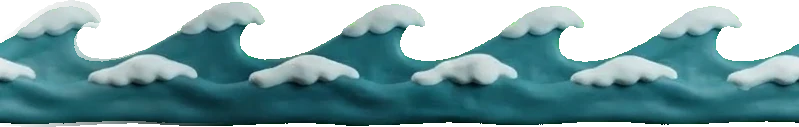
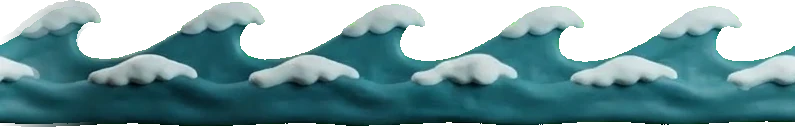
fix(math): Fyld Båden — owner review: one wave band, cargo at deck scale, mascot on the quay
- Waves: wave renders are now made PERIODIC in the pipeline (makePeriodicX finds the crest period, cuts
  at whole periods and blends one period over), and only the near band renders — the pale far band
  showing between crests read as "double vision".
- Scale: the quay's top unit was sized against the pile's 10px-padded grab box, so quay fish were ~2x and
  boxes ~3x the deck cargo. Sizes now come from the pile's own width; piles re-laid out on the planks.
- Deck boxes drawn at 112% for readability; slot marks show only while dragging (they read as stains).
- GameShell's corner mascot stood in the sea: guide={false} and the mascot is seated on the quay planks.

diff --git a/src/components/math/boat/Quay.tsx b/src/components/math/boat/Quay.tsx
@@ -10,6 +10,8 @@ import boxStackArt from '../../../assets/games/boat/box-stack.webp'
 import gullStandArt from '../../../assets/games/boat/gull-stand.webp'
 import gullFlyArt from '../../../assets/games/boat/gull-fly.webp'
 import { idleFloat } from '../../../theme/idleMotion'
+import { PHONE_LANDSCAPE, PHONE_PORTRAIT } from '../../../theme/phoneMedia'
+import Mascot from '../../common/Mascot'
 
 // The quay (owner's Gemini render): two endless supply piles standing on its planks — a stack of fish
 // boxes and a little heap of fish — and a seagull on the bollard. A pile is the child's SOURCE: tap it to
@@ -41,9 +43,9 @@ const Pile: React.FC<{
       {isBox ? (
         <Box component="img" src={boxStackArt} alt="" draggable={false} sx={{ ...imgSx, width: '100%', height: 'auto' }} />
       ) : (
-        <Box sx={{ position: 'relative', display: 'flex', justifyContent: 'center', pt: '30%' }}>
-          <Box sx={{ width: '50%', mr: '-6%' }}><FishView /></Box>
-          <Box sx={{ width: '50%', ml: '-6%' }}><FishView /></Box>
+        <Box sx={{ position: 'relative', display: 'flex', justifyContent: 'center', pt: '24%' }}>
+          <Box sx={{ width: '47%', mr: '-3%' }}><FishView /></Box>
+          <Box sx={{ width: '47%', ml: '-3%' }}><FishView /></Box>
         </Box>
       )}
       {/* The WHOLE PILE is the grab area (owner, 2026-10-14: pressing the lower fish did nothing). The
@@ -64,9 +66,10 @@ const Pile: React.FC<{
             onActivate={() => onLoad(kind)}
           >
             <Box data-boat-source={kind} sx={{ position: 'relative', width: '100%', height: '100%', cursor: interactive ? 'grab' : 'default' }}>
-              {/* The top unit: a box resting on the stack / a fish on top of the heap (+10px: this box is
-                  padded 10px past the pile). */}
-              <Box sx={{ position: 'absolute', left: '50%', top: '10px', width: isBox ? '78%' : '52%', transform: isBox ? 'translate(-50%, -38%)' : 'translate(-50%, 0%)' }}>
+              {/* The top unit: a box resting on the stack / a fish on top of the heap. This box is padded
+                  10px past the pile on every side, so sizes are taken from the PILE's width (100% − 20px) —
+                  the same size as the units below it, which match the cargo on the deck. */}
+              <Box sx={{ position: 'absolute', left: '50%', top: '10px', width: isBox ? 'calc((100% - 20px) * 0.92)' : 'calc((100% - 20px) * 0.47)', transform: isBox ? 'translate(-50%, -34%)' : 'translate(-50%, 0%)' }}>
                 {isBox ? <FishBoxView /> : <FishView />}
               </Box>
             </Box>
@@ -108,7 +111,7 @@ const Quay: React.FC<{
             <Box component="img" src={quayArt} alt="" draggable={false} sx={{ ...imgSx, position: 'absolute', inset: 0, width: '100%', height: '100%' }} />
             {/* A seagull resting on the bollard — calm decor, it never asks for anything. On a correct
                 send it takes off and flies away (the send-off); it is back on the next boat. */}
-            <Box aria-hidden sx={{ position: 'absolute', left: '74%', width: '17%', bottom: '74%' }}>
+            <Box aria-hidden sx={{ position: 'absolute', left: '77%', width: '15%', bottom: '74%' }}>
               {gullAway && !reduce ? (
                 <motion.div
                   initial={{ transform: 'translate(0%, 0%) scale(1)', opacity: 1 }}
@@ -126,8 +129,26 @@ const Quay: React.FC<{
                 </motion.div>
               ) : null}
             </Box>
-            <Pile kind="box" left="0%" width="42%" interactive={interactive} onLoad={onLoad} refill={refills.box} reduce={reduce} />
-            <Pile kind="fish" left="40%" width="36%" interactive={interactive} onLoad={onLoad} refill={refills.fish} reduce={reduce} />
+            {/* The mascot stands on the planks at the left end, beside the cargo — GameShell's corner
+                companion would stand in the sea here (owner, 2026-10-14), so the game turns it off and
+                seats its own. mascotBus reactions still reach it. */}
+            <Mascot
+              sx={{
+                position: 'absolute',
+                left: '-4%',
+                bottom: PLANK_TOP_FROM_BOTTOM,
+                width: '26%',
+                height: 'auto',
+                aspectRatio: '1',
+                zIndex: 1,
+                [PHONE_LANDSCAPE]: { display: 'block' },
+                [PHONE_PORTRAIT]: { width: '26%', height: 'auto' },
+              }}
+            />
+            {/* Piles at DECK scale: a box on the stack and a fish in the heap are the size of the cargo
+                they become on the boat, so the child sees the same thing move rather than a shrink. */}
+            <Pile kind="box" left="22%" width="22%" interactive={interactive} onLoad={onLoad} refill={refills.box} reduce={reduce} />
+            <Pile kind="fish" left="45%" width="34%" interactive={interactive} onLoad={onLoad} refill={refills.fish} reduce={reduce} />
           </Box>
         </DroppableZone>
       </Box>

diff --git a/src/components/math/boat/Boat.tsx b/src/components/math/boat/Boat.tsx
@@ -52,6 +52,8 @@ interface BoatProps {
   shakeKey: number
   /** The boat is setting off — a bow splash plays once. */
   departing: boolean
+  /** Something is being dragged — the deck shows where the slots are. */
+  dragging: boolean
 }
 
 // ── Slot geometry (fractions of the boat box) ────────────────────────────────────────────────────────
@@ -90,7 +92,7 @@ const Slot: React.FC<{
 // keeps its slot so the 5 + 5 stays countable.
 const Cargo: React.FC<{ kind: CargoKind }> = ({ kind }) =>
   kind === 'box' ? (
-    <Box sx={{ width: '106%', ml: '-3%', flex: '0 0 auto' }}>
+    <Box sx={{ width: '112%', ml: '-6%', flex: '0 0 auto' }}>
       <FishBoxView />
     </Box>
   ) : (
@@ -105,7 +107,8 @@ const Row: React.FC<{
   interactive: boolean
   reduce: boolean
   onUnload: (kind: CargoKind) => void
-}> = ({ kind, count, ghostCount, bundle, interactive, reduce, onUnload }) => {
+  showSlots: boolean
+}> = ({ kind, count, ghostCount, bundle, interactive, reduce, onUnload, showSlots }) => {
   const pulse = hintPulse(reduce)
   return (
     <>
@@ -117,7 +120,11 @@ const Row: React.FC<{
         return (
           <Slot key={i} kind={kind} i={i}>
             {/* A soft mark on the deck where this slot is — the 5 + 5 structure is visible even empty. */}
-            <Box aria-hidden sx={{ position: 'absolute', left: '8%', right: '8%', bottom: '-6%', height: '22%', borderRadius: '50%', background: 'rgba(90,55,25,0.22)' }} />
+            {/* Where this slot is — shown only while something is being dragged (as resting marks they read
+                as stains on the deck, owner 2026-10-14). The 5 + 5 gap carries the structure the rest of the time. */}
+            {showSlots && (
+              <Box aria-hidden sx={{ position: 'absolute', left: '8%', right: '8%', bottom: '-6%', height: '22%', borderRadius: '50%', background: 'rgba(255,255,255,0.4)', boxShadow: '0 0 6px rgba(255,255,255,0.6)' }} />
+            )}
             {ghosted && (
               // The hint: a faint silhouette of exactly what goes here, breathing.
               <Box {...pulse.props} sx={[{ position: 'absolute', inset: 0, opacity: 0.45, filter: 'grayscale(0.4) brightness(1.4)', display: 'flex', alignItems: 'center' }, pulse.sx]}>
@@ -212,6 +219,7 @@ const Boat: React.FC<BoatProps> = ({
   onHorn,
   shakeKey,
   departing,
+  dragging,
 }) => {
   const L = BOAT_LOOKS[look % BOAT_LOOKS.length]
   return (
@@ -259,8 +267,8 @@ const Boat: React.FC<BoatProps> = ({
           }}
         />
       </Box>
-      <Row kind="box" count={deck.boxes} ghostCount={ghost ? ghost.boxes : null} bundle={bundle} interactive={interactive} reduce={reduce} onUnload={onUnload} />
-      <Row kind="fish" count={deck.fish} ghostCount={ghost ? ghost.fish : null} bundle={bundle} interactive={interactive} reduce={reduce} onUnload={onUnload} />
+      <Row kind="box" count={deck.boxes} ghostCount={ghost ? ghost.boxes : null} bundle={bundle} interactive={interactive} reduce={reduce} onUnload={onUnload} showSlots={dragging} />
+      <Row kind="fish" count={deck.fish} ghostCount={ghost ? ghost.fish : null} bundle={bundle} interactive={interactive} reduce={reduce} onUnload={onUnload} showSlots={dragging} />
       {bundle && !reduce && <PackingShow bundle={bundle} />}
 
       {/* The send-off: a wake splash at the STERN as the boat sets off (a delight AFTER the answer, never

diff --git a/src/components/math/boat/HarbourScene.tsx b/src/components/math/boat/HarbourScene.tsx
@@ -3,7 +3,6 @@ import { Box } from '@mui/material'
 import { idleDrift } from '../../../theme/idleMotion'
 import backdropArt from '../../../assets/games/boat/backdrop.webp'
 import waveNearArt from '../../../assets/games/boat/wave-near.webp'
-import waveFarArt from '../../../assets/games/boat/wave-far.webp'
 
 // Fyld Båden's own full-bleed harbour (Harbour PRD-01 §2.2.11) — the first game to paint its own scene
 // instead of the blurred world. ONE harbour on every skin, like all game art. Owner's Gemini renders.
@@ -56,15 +55,14 @@ const band = (src: string) => ({
   backgroundPosition: 'left bottom',
 })
 
+// ONE wave band. There used to be a pale far band behind it; it showed through between the near crests
+// and, with the blend ghosting of the time, read as "double vision" (owner, 2026-10-14). The open water
+// of the backdrop already does the far sea's job.
 export const HarbourFrontWater: React.FC<{ reduce: boolean }> = ({ reduce }) => {
-  const back = idleDrift(reduce, { distance: 40, durationS: 6.5 })
-  const front = idleDrift(reduce, { distance: 56, durationS: 5, delayS: -2 })
+  const front = idleDrift(reduce, { distance: 56, durationS: 5.5 })
   return (
-    <Box aria-hidden sx={{ position: 'absolute', left: 0, right: 0, bottom: 0, height: '10dvh', zIndex: 2, pointerEvents: 'none', overflow: 'hidden' }}>
-      <Box sx={{ position: 'absolute', left: 0, right: '-80px', bottom: '28%', height: '72%' }}>
-        <Box {...back.props} sx={[{ width: '100%', height: '100%', opacity: 0.95, ...band(waveFarArt) }, back.sx]} />
-      </Box>
-      <Box sx={{ position: 'absolute', left: '-40px', right: '-80px', bottom: 0, height: '62%' }}>
+    <Box aria-hidden sx={{ position: 'absolute', left: 0, right: 0, bottom: 0, height: '7dvh', zIndex: 2, pointerEvents: 'none', overflow: 'hidden' }}>
+      <Box sx={{ position: 'absolute', left: '-40px', right: '-80px', bottom: 0, height: '100%' }}>
         <Box {...front.props} sx={[{ width: '100%', height: '100%', ...band(waveNearArt) }, front.sx]} />
       </Box>
     </Box>

diff --git a/src/components/math/FyldBaadenGame.tsx b/src/components/math/FyldBaadenGame.tsx
@@ -381,6 +381,9 @@ const FyldBaadenGame: React.FC = () => {
         title="Fyld Båden"
         backRoute="/math"
         dense
+        // The corner companion would stand IN THE SEA here (owner, 2026-10-14) — the quay renders the same
+        // mascot on its planks instead. `guideReaction` still reaches it through mascotBus.
+        guide={false}
         guideReaction={guideReaction}
         celebration={{ show: showCelebration, intensity: celebrationIntensity, duration: celebrationDuration, onComplete: stopCelebration }}
       >
@@ -442,10 +445,10 @@ const FyldBaadenGame: React.FC = () => {
                 display: 'flex',
                 alignItems: 'flex-end',
                 justifyContent: 'center',
-                // Lift the boat so the front wave band (HarbourFrontWater, 10dvh) covers only the bottom of
+                // Lift the boat so the front wave band (HarbourFrontWater, 7dvh) covers only the bottom of
                 // the hull — on a phone the band is taller than the whole hull and hid the bottom row of
-                // deck slots (WebKit phone-portrait probe, 2026-10-13). 0.09·bw ≈ the lowest 12% of the art.
-                pb: 'max(0px, calc(10dvh - var(--bw) * 0.09 - 10px))',
+                // deck slots (WebKit phone-portrait probe, 2026-10-13). 0.06·bw ≈ the lowest 10% of the art.
+                pb: 'max(0px, calc(7dvh - var(--bw) * 0.06 - 10px))',
                 '@media (orientation: portrait)': { flex: '0 0 auto' },
               }}
             >
@@ -473,6 +476,7 @@ const FyldBaadenGame: React.FC = () => {
                       onHorn={sendBoat}
                       shakeKey={shakeKey}
                       departing={phase === 'sailing'}
+                      dragging={activeId !== null}
                     />
                   </Box>
                 </motion.div>
